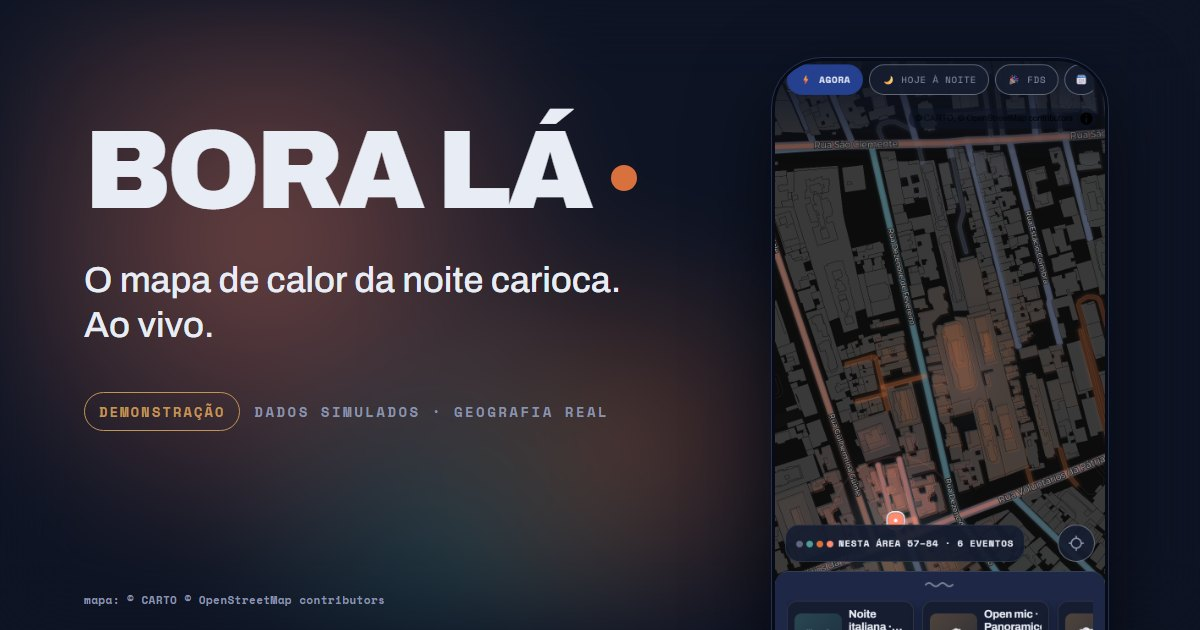
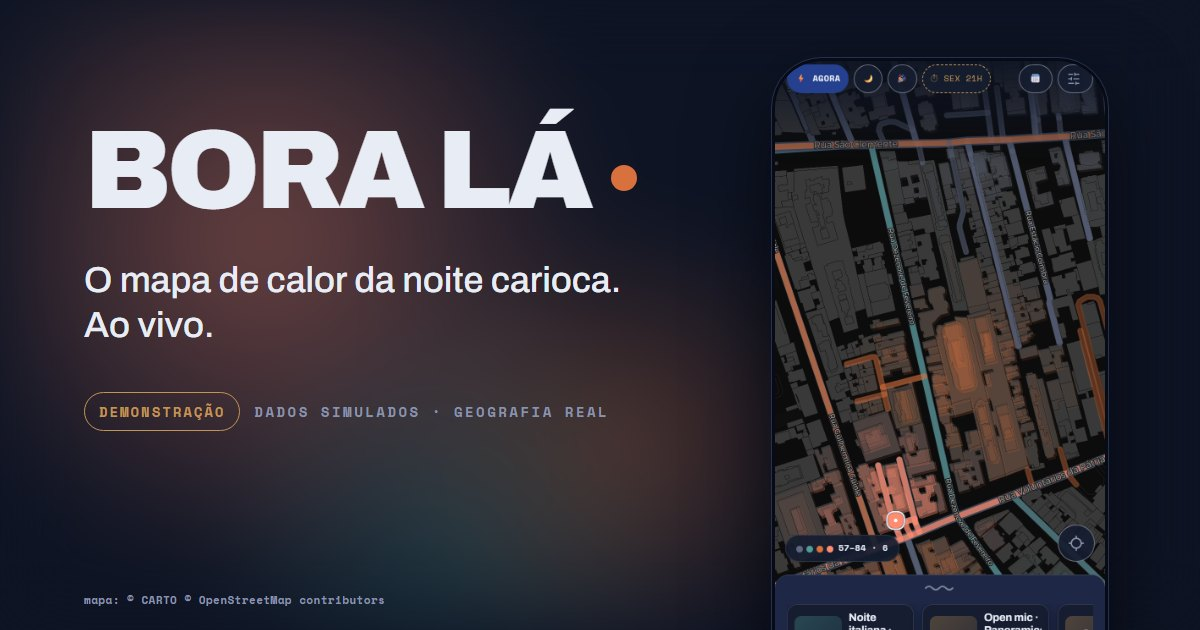
demo: atualiza borala_app (2026-09-10 11:34)

diff --git a/index.html b/index.html
@@ -40,7 +40,7 @@
   --d-curta:120ms; --d-media:300ms; --d-longa:450ms;
   /* raios (rec. 14): cinco tokens + pílula; a moldura de 48 px (#tela) fica fora */
   --r-xs:4px; --r-s:8px; --r-m:12px; --r-l:16px; --r-xl:28px; --r-full:999px;
-  /* escala tipográfica (rec. 6): piso 11 px (rótulo mono = 11/16 com tracking .06em); 42 só no wordmark .logo; exceção: atribuição do mapa a 10 px */
+  /* escala tipográfica (rec. 6): piso 11 px (rótulo mono = 11/16 com tracking .06em); 42 só no wordmark .logo; rev. 5: rótulos mono secundários a 10 px */
   --t-10:10px; --t-11:11px; --t-12:12px; --t-13:13px; --t-15:15px; --t-17:17px; --t-20:20px; --t-24:24px; --t-28:28px; --t-34:34px;
   /* folga acima do painel de cards para a legenda e o ◎ (altura do painel + 8 px); medida pelo verificar.py em 390×844 e 360×780 */
   --acima-painel:184px;
@@ -113,7 +113,6 @@ body.tem-aovivo .tab .bola .ponto,body.tem-aovivo .ponto-vivo,body.tem-aovivo .p
 .mapa-carregando{position:absolute;left:0;right:0;top:45%;text-align:center;font-family:var(--mono);font-size:var(--t-11);line-height:16px;letter-spacing:.08em;color:var(--texto2);pointer-events:none}
 .mapa-erro{position:absolute;left:20px;right:20px;top:calc(var(--safe-t) + 64px);background:var(--card);border:1px solid var(--borda);border-radius:var(--r-l);padding:14px 16px;display:flex;flex-direction:column;gap:12px;font-size:var(--t-13);line-height:1.5;color:var(--texto);z-index:5}
 .mapa-erro .tracejado{padding:12px}
-#mapa .maplibregl-ctrl-attrib{font-size:10px;background:rgba(14,20,36,.6)}   /* a única exceção ao piso de 11 px (rec. 6) */
 .scrim-topo{position:absolute;left:0;right:0;top:0;height:calc(var(--safe-t) + 120px);background:linear-gradient(to bottom,rgba(14,20,36,.92) 0%,rgba(14,20,36,.4) 60%,transparent 100%);pointer-events:none}
 .topo-mapa{position:absolute;left:0;right:0;top:calc(var(--safe-t) + 4px);display:flex;align-items:center;gap:8px;padding:0 14px}
 .topo-mapa .chips{flex:1}
@@ -392,9 +391,10 @@ fieldset{border:0;min-width:0}
       <div class="scrim-topo"></div>
       <div class="topo-mapa">
         <div id="chips-tempo" class="chips">
-          <button class="chip on" data-j="agora">⚡ AGORA</button>
-          <button class="chip" data-j="noite">🌙 HOJE À NOITE</button>
-          <button class="chip" data-j="fds">🎉 FDS</button>
+          <!-- só o chip escolhido mostra o texto; os outros ficam no emoji (rev. 6) — o nome completo vai no aria-label -->
+          <button class="chip on" data-j="agora" data-emoji="⚡" data-rotulo="AGORA" aria-label="Agora">⚡ AGORA</button>
+          <button class="chip" data-j="noite" data-emoji="🌙" data-rotulo="ESSA NOITE" aria-label="Essa noite">🌙</button>
+          <button class="chip" data-j="fds" data-emoji="🎉" data-rotulo="FDS" aria-label="Fim de semana">🎉</button>
           <button class="chip sim" id="chip-sim" hidden>⏱ SEX 21H</button>
         </div>
         <!-- fixos à direita (fora da faixa rolável): dia/hora e filtro de categoria -->
@@ -611,13 +611,14 @@ if (typeof module !== 'undefined') module.exports = Tempo;
 // `Mapa.regras` é puro (testado no node); o resto precisa do navegador.
 const Mapa = (() => {
   const VIS = { TIER_SHARES: [0.40, 0.25, 0.25, 0.10], FERVENDO_MIN: 80, ABS_FIRE: 95, FIRE_MIN: 86, FIRE_ANIM_MIN: 90, CONF_ANIM: 0.6,
-                Z_RUAS: 16, RUA_RAIO_M: 120, QUADRA_RAIO_M: 100,   // Z_RUAS 16 no app (o template_agora fica em 17): pedido do usuário em 10/09/2026
+                Z_RUAS: 15.5, RUA_RAIO_M: 120, QUADRA_RAIO_M: 100,   // Z_RUAS 15,5 no app (o template_agora fica em 17): pedido do usuário em 10/09/2026
                 MOTION: true };   // false sob prefers-reduced-motion (lido em iniciar): chama estática e voos sem duração (rec. 17)
   const QUADROS_CHAMA = 22, FPS_CHAMA = 24;
   const TIER_COLORS = { azul: '#5f6880', amarelo: '#4E9D96', laranja: '#D9713E', rosa: '#FF8C70' };   // rosa = coral (auditoria 09/09/2026)
   const BRASA = '#FFCCA3';   // topo da rampa do calor (L* 85): o ponto mais quente é o mais claro; não é faixa do Vibemetro
   const TIER_TXT = { azul: '#8A93AD', amarelo: '#4E9D96', laranja: '#D9713E', rosa: '#FF8C70' };      // a tinta como texto (tranquilo vira --texto2)
   const hexRgba = (hex, a) => { const n = parseInt(hex.slice(1), 16); return `rgba(${n >> 16},${(n >> 8) & 255},${n & 255},${a})`; };
+  const CREDITO = 'MAPA © CARTO · © OPENSTREETMAP CONTRIBUTORS';   // sem o botão ⓘ do MapLibre (rev. 6): o crédito fica na legenda expandida
   const TOQUE_PX = 22;   // meia caixa de 44 px (HIG 44 pt / Material 48 dp) no toque do mapa
   const FIRE_ICONS = ['fire', 'fire-anim'];
 
@@ -730,7 +731,7 @@ const Mapa = (() => {
   // legenda compacta: fechada é uma pílula ('55–98 · 68' ou 'CALOR'); a explicação inteira só aparece no corpo, ao tocar
   function legenda(visiveis, zoom, janela){
     const regras = 'COR DO BOTÃO = LUGAR NO SEU BAIRRO · FERVENDO = ' + Math.round(VIS.TIER_SHARES[3] * 100) + '% DE CIMA OU O 1º DO BAIRRO, COM NOTA > '
-      + VIS.FERVENDO_MIN + ' · 🔥 = NOTA ' + VIS.FIRE_MIN + '+ · ANEL = TOP 5 DO BAIRRO · Nº NO BOTÃO = AGRUPADOS';
+      + VIS.FERVENDO_MIN + ' · 🔥 = NOTA ' + VIS.FIRE_MIN + '+ · ANEL = TOP 5 DO BAIRRO · Nº NO BOTÃO = AGRUPADOS · ' + CREDITO;
     const estimativa = janela !== 'agora';
     if (zoom >= 14){
       const n = (visiveis || []).length;
@@ -742,7 +743,7 @@ const Mapa = (() => {
     return { linha: 'CALOR', corpo: 'MANCHA = CONCENTRAÇÃO NA ÁREA VISTA · TOQUE ABRE O BAIRRO · ' + regras, pontos: false, rampa: true, estimativa };
   }
   const regras = { quantileVC, tierKey, tierName, showZoom, classificar, dentro, distanciaKm, maisProxima, legenda, expandir, resetNormalizacao,
-                   TIER_COLORS, TIER_TXT, BRASA, TOQUE_PX };
+                   TIER_COLORS, TIER_TXT, BRASA, TOQUE_PX, CREDITO };
 
   // ---------- ÍCONES (canvas) ----------
   let map = null, opts = null, ultimaLista = [], marcadorUsuario = null, bairrosPrep = [];
@@ -933,11 +934,11 @@ const Mapa = (() => {
       'circle-opacity': HALO_OPACIDADE_RUAS } }, ANTES);
     map.addSource('ruas-quentes', { type: 'geojson', data: fc([]) }); map.addSource('quadras-quentes', { type: 'geojson', data: fc([]) });
     const Z = VIS.Z_RUAS, entrada = v => ['interpolate', ['linear'], ['zoom'], Z - 0.4, 0, Z + 0.2, v];   // as ruas entram entre Z-0,4 e Z+0,2
-    map.addLayer({ id: 'quadras', type: 'fill', source: 'quadras-quentes', minzoom: Z - 0.5, paint: { 'fill-color': ['get', 'c'], 'fill-opacity': entrada(['get', 'o']) } }, ANTES);
-    map.addLayer({ id: 'ruas-glow', type: 'line', source: 'ruas-quentes', minzoom: Z - 0.5, layout: { 'line-cap': 'round', 'line-join': 'round' },
-      paint: { 'line-color': ['get', 'c'], 'line-width': ['interpolate', ['exponential', 1.6], ['zoom'], Z, 14, Z + 2, 30], 'line-blur': 4, 'line-opacity': entrada(['*', 0.5, ['get', 'o']]) } }, ANTES);
+    // sem brilho (rev. 6): a quadra e a rua recebem a tinta como se fossem parte do mapa — largura igual à da via do CARTO
+    // (road_minor_fill: 3/4/8/12 px em z15/16/17/18), sem blur e sem camada de glow; opacidade contida
+    map.addLayer({ id: 'quadras', type: 'fill', source: 'quadras-quentes', minzoom: Z - 0.5, paint: { 'fill-color': ['get', 'c'], 'fill-opacity': entrada(['*', 0.7, ['get', 'o']]) } }, ANTES);
     map.addLayer({ id: 'ruas', type: 'line', source: 'ruas-quentes', minzoom: Z - 0.5, layout: { 'line-cap': 'round', 'line-join': 'round' },
-      paint: { 'line-color': ['get', 'c'], 'line-width': ['interpolate', ['exponential', 1.6], ['zoom'], Z, 5.5, Z + 2, 11], 'line-blur': 0.4, 'line-opacity': entrada(['get', 'o']) } }, ANTES);
+      paint: { 'line-color': ['get', 'c'], 'line-width': ['interpolate', ['linear'], ['zoom'], 15, 3.5, 16, 4.5, 17, 8.5, 18, 12.5], 'line-blur': 0, 'line-opacity': entrada(['*', 0.8, ['get', 'o']]) } }, ANTES);
     // nomes de bairro do CARTO: mais claros e com halo no azul do app, para lerem por cima do calor
     for (const id of ['place_suburbs', 'place_hamlet']) if (map.getLayer(id)){
       map.setPaintProperty(id, 'text-color', '#B8C0D4'); map.setPaintProperty(id, 'text-halo-color', '#0E1424'); map.setPaintProperty(id, 'text-halo-width', 1.2);
@@ -989,9 +990,6 @@ const Mapa = (() => {
     document.addEventListener('visibilitychange', () => { if (!document.hidden && map) map.triggerRepaint(); });   // a chama retoma ao voltar à página
     map = new maplibregl.Map({ container: o.container, style: 'https://basemaps.cartocdn.com/gl/dark-matter-gl-style/style.json',
       center: [-43.18, -22.93], zoom: 11.6, attributionControl: false });
-    map.addControl(new maplibregl.AttributionControl({ compact: true }), 'top-right');
-    const ctrlTopoDir = map.getContainer().querySelector('.maplibregl-ctrl-top-right');
-    if (ctrlTopoDir) ctrlTopoDir.style.top = 'calc(var(--safe-t) + 46px)';   // abaixo dos chips de tempo (.topo-mapa)
     return new Promise((res, rej) => { map.on('load', () => { addLayers(o.bairros); ligarEventos(); res(); });
       map.on('error', e => { if (!map.loaded()) rej(e && e.error || e); }); });
   }
@@ -1704,7 +1702,7 @@ const Interface = (() => {
     itens = Tempo.scoresDaJanela(filtrar(DATA.events), janelaEfetiva(), hScore());
     Mapa.atualizar(itens);
     renderAoVivo();
-    $$('#chips-tempo .chip[data-j]').forEach(c => c.classList.toggle('on', !estado.periodo && c.dataset.j === estado.janela));
+    $$('#chips-tempo .chip[data-j]').forEach(c => { const on = !estado.periodo && c.dataset.j === estado.janela; c.classList.toggle('on', on); c.textContent = on ? c.dataset.emoji + ' ' + c.dataset.rotulo : c.dataset.emoji; });   // só o escolhido mostra o texto
     const cp = $('#chip-periodo'); cp.classList.toggle('on', !!estado.periodo);
     cp.textContent = estado.periodo ? '🗓 ' + Tempo.DIAS[estado.periodo.dia] + ' ' + String(estado.periodo.hora).padStart(2, '0') + 'H' : '🗓';
     const cc = $('#chip-cat'), temCat = estado.categoria !== 'TODOS'; cc.querySelector('span').textContent = temCat ? ' ' + estado.categoria : ''; cc.classList.toggle('on', temCat);   // ícone sliders (Lucide) + categoria ativa
